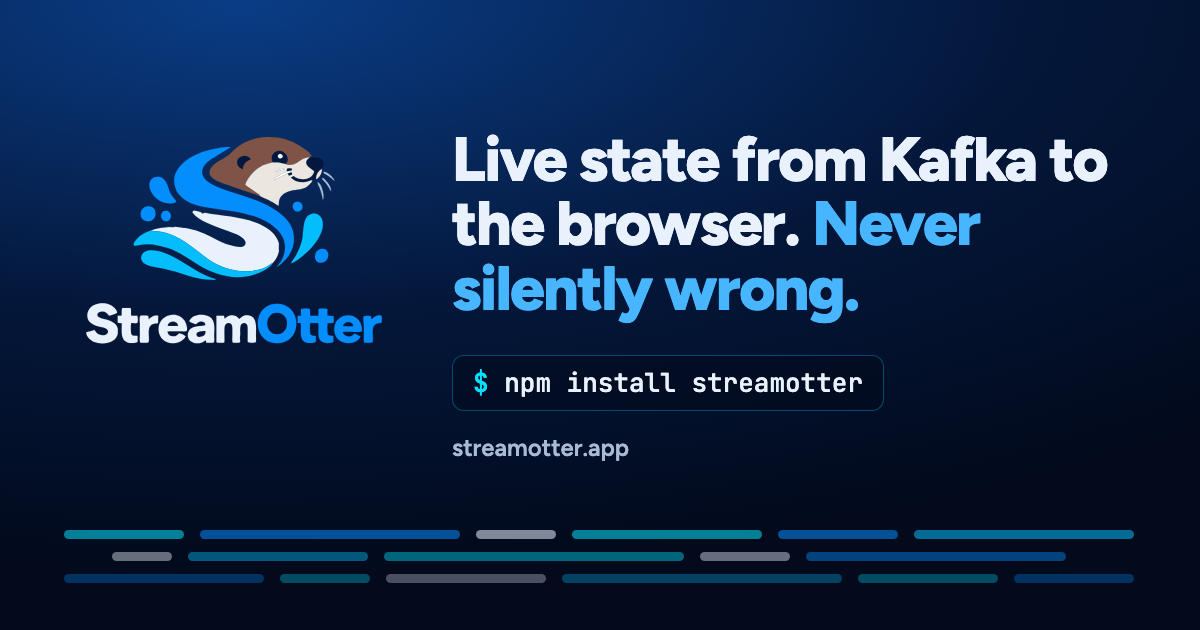
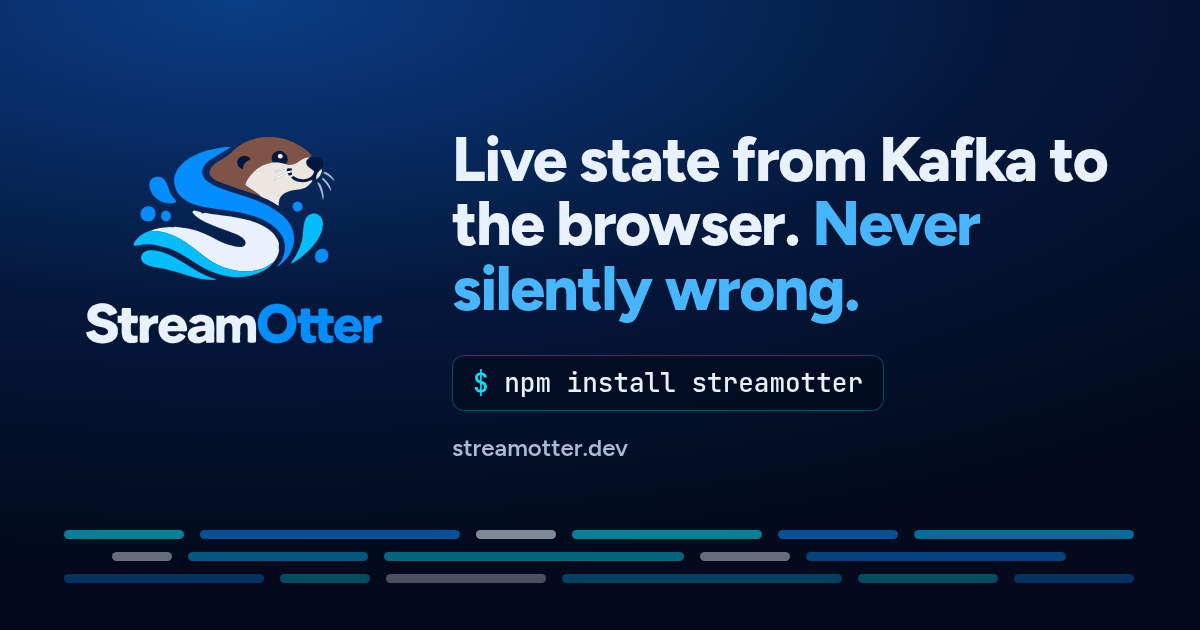
fix: move the site and demo from streamotter.app to streamotter.dev
The site is served from streamotter.dev, but the production gateway config,
the field station's origin checks, Caddy's Origin guards, the site workflow's
field station origin, canonical URLs, robots.txt and the social card still
named streamotter.app, so a live view from streamotter.dev would be refused.

Historical records (reviews, handoffs, ADRs, the working record) are unchanged.

diff --git a/apps/field-station/test/server.test.ts b/apps/field-station/test/server.test.ts
@@ -257,7 +257,7 @@ describe("the field station's HTTP APIs", () => {
   }
 
   before(async () => {
-    config = { ...readConfig({ FIELD_STATION_SERVICE_TOKEN: token }), siteOrigins: ["https://streamotter.app"], gatewayOrigin: "https://demo.streamotter.app" };
+    config = { ...readConfig({ FIELD_STATION_SERVICE_TOKEN: token }), siteOrigins: ["https://streamotter.dev"], gatewayOrigin: "https://demo.streamotter.dev" };
     const queue = new PublishQueue(publisher, () => undefined);
     field = new FieldStation({ queue, dataDir: await dataDir(), epoch: EPOCH, tickMs: TICK_MS, generation: 1, now: time.now, log: () => undefined });
     notebooks = new Notebooks({ queue, tenantId: "lontra-creek", now: time.now, log: () => undefined });
@@ -302,12 +302,12 @@ describe("the field station's HTTP APIs", () => {
   });
 
   test("the site API answers the site's origin with credentials, and nobody else's", async () => {
-    const allowed = await fetch(`${apiOrigin}/api/config`, { headers: { origin: "https://streamotter.app" } });
-    assert.equal(allowed.headers.get("access-control-allow-origin"), "https://streamotter.app");
+    const allowed = await fetch(`${apiOrigin}/api/config`, { headers: { origin: "https://streamotter.dev" } });
+    assert.equal(allowed.headers.get("access-control-allow-origin"), "https://streamotter.dev");
     assert.equal(allowed.headers.get("access-control-allow-credentials"), "true");
-    assert.deepEqual(await allowed.json(), { gatewayOrigin: "https://demo.streamotter.app", gatewayPath: "/streamotter/socket.io", mode: "kafka", tickMs: TICK_MS });
+    assert.deepEqual(await allowed.json(), { gatewayOrigin: "https://demo.streamotter.dev", gatewayPath: "/streamotter/socket.io", mode: "kafka", tickMs: TICK_MS });
 
-    const preflight = await fetch(`${apiOrigin}/api/badge`, { method: "OPTIONS", headers: { origin: "https://streamotter.app", "access-control-request-method": "POST" } });
+    const preflight = await fetch(`${apiOrigin}/api/badge`, { method: "OPTIONS", headers: { origin: "https://streamotter.dev", "access-control-request-method": "POST" } });
     assert.equal(preflight.status, 204);
     assert.equal(preflight.headers.get("access-control-allow-headers"), "content-type");
 
@@ -318,21 +318,21 @@ describe("the field station's HTTP APIs", () => {
   });
 
   test("a malformed request from the site's origin gets a 400 the page can read", async () => {
-    const badge = await fetch(`${apiOrigin}/api/badge`, { method: "POST", headers: { origin: "https://streamotter.app", "content-type": "application/json", "x-client-ip": "198.51.100.39" }, body: "{}" });
+    const badge = await fetch(`${apiOrigin}/api/badge`, { method: "POST", headers: { origin: "https://streamotter.dev", "content-type": "application/json", "x-client-ip": "198.51.100.39" }, body: "{}" });
     const cookie = badge.headers.get("set-cookie")!.split(";")[0]!;
     for (const path of ["/api/badge", "/api/notebook/sightings"]) {
-      const response = await fetch(`${apiOrigin}${path}`, { method: "POST", headers: { origin: "https://streamotter.app", cookie, "content-type": "application/json", "x-client-ip": "198.51.100.40" }, body: "{not json" });
+      const response = await fetch(`${apiOrigin}${path}`, { method: "POST", headers: { origin: "https://streamotter.dev", cookie, "content-type": "application/json", "x-client-ip": "198.51.100.40" }, body: "{not json" });
       assert.equal(response.status, 400, path);
-      assert.equal(response.headers.get("access-control-allow-origin"), "https://streamotter.app", path);
+      assert.equal(response.headers.get("access-control-allow-origin"), "https://streamotter.dev", path);
       assert.equal(response.headers.get("access-control-allow-credentials"), "true");
     }
-    const tooLarge = await fetch(`${apiOrigin}/api/badge`, { method: "POST", headers: { origin: "https://streamotter.app", "content-type": "application/json", "x-client-ip": "198.51.100.41" }, body: JSON.stringify({ role: "x".repeat(5_000) }) });
+    const tooLarge = await fetch(`${apiOrigin}/api/badge`, { method: "POST", headers: { origin: "https://streamotter.dev", "content-type": "application/json", "x-client-ip": "198.51.100.41" }, body: JSON.stringify({ role: "x".repeat(5_000) }) });
     assert.equal(tooLarge.status, 400);
-    assert.equal(tooLarge.headers.get("access-control-allow-origin"), "https://streamotter.app");
+    assert.equal(tooLarge.headers.get("access-control-allow-origin"), "https://streamotter.dev");
   });
 
   test("a badge keeps its subject for the same role and changes it for another", async () => {
-    const first = await fetch(`${apiOrigin}/api/badge`, { method: "POST", headers: { origin: "https://streamotter.app", "content-type": "application/json", "x-client-ip": "198.51.100.7" }, body: JSON.stringify({ role: "volunteer" }) });
+    const first = await fetch(`${apiOrigin}/api/badge`, { method: "POST", headers: { origin: "https://streamotter.dev", "content-type": "application/json", "x-client-ip": "198.51.100.7" }, body: JSON.stringify({ role: "volunteer" }) });
     assert.equal(first.status, 200);
     const cookie = first.headers.get("set-cookie")!;
     assert.match(cookie, /^lc_session=[^;]+; Path=\/api; HttpOnly; SameSite=Strict; Max-Age=1800$/);
@@ -369,7 +369,7 @@ describe("the field station's HTTP APIs", () => {
 
   test("a visitor logs sightings in their own notebook, and only there", async () => {
     const headers = (ip: string, cookie?: string): Record<string, string> => ({
-      origin: "https://streamotter.app", "content-type": "application/json", "x-client-ip": ip, ...(cookie === undefined ? {} : { cookie })
+      origin: "https://streamotter.dev", "content-type": "application/json", "x-client-ip": ip, ...(cookie === undefined ? {} : { cookie })
     });
     const sighting = JSON.stringify({ otterId: "LO-07", reachId: "kestrel-bend", activity: "foraging" });
     assert.equal((await fetch(`${apiOrigin}/api/notebook/sightings`, { method: "POST", headers: headers("192.0.2.1"), body: sighting })).status, 401);
@@ -417,8 +417,8 @@ describe("configuration from the environment", () => {
     FIELD_STATION_SECRET: "s".repeat(32),
     FIELD_STATION_SERVICE_TOKEN: "t".repeat(32),
     FIELD_EPOCH: "2026-10-01T00:00:00Z",
-    SITE_ORIGIN: "https://streamotter.app",
-    GATEWAY_PUBLIC_ORIGIN: "https://demo.streamotter.app",
+    SITE_ORIGIN: "https://streamotter.dev",
+    GATEWAY_PUBLIC_ORIGIN: "https://demo.streamotter.dev",
     KAFKA_BROKERS: "kafka:9094",
     KAFKA_CA_FILE: "/etc/lontra/kafka/ca.pem",
     KAFKA_FIELD_STATION_USERNAME: "field-station",
@@ -429,7 +429,7 @@ describe("configuration from the environment", () => {
     const config = readConfig(production);
     assert.equal(config.epoch, "2026-10-01T00:00:00.000Z");
     assert.deepEqual(config.kafka, { brokers: ["kafka:9094"], caFile: "/etc/lontra/kafka/ca.pem", sasl: { username: "field-station", password: "p" } });
-    assert.deepEqual(config.siteOrigins, ["https://streamotter.app"]);
+    assert.deepEqual(config.siteOrigins, ["https://streamotter.dev"]);
   });
 
   test("production refuses to run without its epoch, TLS, SCRAM, or origins", () => {

diff --git a/deploy/test/lab-spike.test.ts b/deploy/test/lab-spike.test.ts
@@ -3,7 +3,7 @@
  * restored while the demo host's gateway keeps serving. CI runs it against
  * deploy/compose.yaml with deploy/compose.lab-spike.yaml (.github/workflows/lab-spike.yml):
  *
- *   LAB_PROXY_TOKEN=<relay token> STACK_ORIGIN=https://demo.streamotter.app \
+ *   LAB_PROXY_TOKEN=<relay token> STACK_ORIGIN=https://demo.streamotter.dev \
  *   NODE_EXTRA_CA_CERTS=<test origin CA> node --test deploy/test/lab-spike.test.ts
  *
  * Each cycle cuts the bench's proxy, measures how long the bench's subscription
@@ -15,7 +15,7 @@
  * Environment: LAB_PROXY_TOKEN (required), LAB_PROXY_CONTROL (default
  * http://127.0.0.1:9180), LAB_BENCH_ORIGIN (default http://127.0.0.1:7500),
  * LAB_BENCH_PATH (default /lab/1/socket.io), LAB_BADGE_ORIGIN (where /api/badge
- * answers; default STACK_ORIGIN), SITE_ORIGIN (default https://streamotter.app),
+ * answers; default STACK_ORIGIN), SITE_ORIGIN (default https://streamotter.dev),
  * STACK_ORIGIN (the demo host through Caddy; without it the demo host's gateway
  * isn't watched), LAB_STOP_PROXY and LAB_START_PROXY (shell commands that stop and
  * start the proxy's container; without them that cycle skips), LAB_SPIKE_LONG_CUT_MS
@@ -36,8 +36,8 @@ const PROXY_CONTROL = process.env["LAB_PROXY_CONTROL"] ?? "http://127.0.0.1:9180
 const BENCH_ORIGIN = process.env["LAB_BENCH_ORIGIN"] ?? "http://127.0.0.1:7500";
 const BENCH_PATH = process.env["LAB_BENCH_PATH"] ?? "/lab/1/socket.io";
 const STACK = process.env["STACK_ORIGIN"];
-const BADGES = process.env["LAB_BADGE_ORIGIN"] ?? STACK ?? "https://demo.streamotter.app";
-const SITE = process.env["SITE_ORIGIN"] ?? "https://streamotter.app";
+const BADGES = process.env["LAB_BADGE_ORIGIN"] ?? STACK ?? "https://demo.streamotter.dev";
+const SITE = process.env["SITE_ORIGIN"] ?? "https://streamotter.dev";
 const STOP_PROXY = process.env["LAB_STOP_PROXY"];
 const START_PROXY = process.env["LAB_START_PROXY"];
 const LONG_CUT_MS = Number(process.env["LAB_SPIKE_LONG_CUT_MS"] ?? 45_000);

diff --git a/apps/field-station/src/lab/runtime.ts b/apps/field-station/src/lab/runtime.ts
@@ -139,7 +139,7 @@ export class BenchRuntime {
     return envelope.data;
   }
   async #relay(cut: boolean): Promise<void> { const origin = this.#env['LAB_RELAY_ORIGIN'] ?? `http://lab-${this.#settings.number}-kafka:9180`; const response = await fetch(`${origin}/${cut ? 'cut' : 'restore'}`, { method: 'POST', headers: { authorization: `Bearer ${this.#settings.relayToken}` }, signal: AbortSignal.timeout(3000) }); if (!response.ok) throw new Error('Relay unavailable.'); this.#scenario.relay = cut ? 'cut' : 'up'; }
-  #config() { const study = this.#study; if (!study) throw new Error('No study.'); return benchConfig(this.#settings.number, { generation: study.generation, host: this.#env['BENCH_HOST'] ?? '0.0.0.0', port: Number(this.#env['BENCH_PORT'] ?? 7400), brokers: (this.#env['BENCH_KAFKA_BROKERS'] ?? `lab-${this.#settings.number}-kafka:${9100 + this.#settings.number}`).split(','), caFile: this.#env['KAFKA_CA_FILE'] ?? '/etc/lontra/kafka/ca.pem', consumerGroup: study.consumerGroup, allowedOrigins: (this.#env['SITE_ORIGIN'] ?? 'https://streamotter.app').split(',') }); }
+  #config() { const study = this.#study; if (!study) throw new Error('No study.'); return benchConfig(this.#settings.number, { generation: study.generation, host: this.#env['BENCH_HOST'] ?? '0.0.0.0', port: Number(this.#env['BENCH_PORT'] ?? 7400), brokers: (this.#env['BENCH_KAFKA_BROKERS'] ?? `lab-${this.#settings.number}-kafka:${9100 + this.#settings.number}`).split(','), caFile: this.#env['KAFKA_CA_FILE'] ?? '/etc/lontra/kafka/ca.pem', consumerGroup: study.consumerGroup, allowedOrigins: (this.#env['SITE_ORIGIN'] ?? 'https://streamotter.dev').split(',') }); }
   /** Runs `fn` only while `scope` is the open study; otherwise counts a late callback against that study. */
   #within(scope: StudyScope, fn: () => void): void { if (scope.closed || scope !== this.#scope) { scope.counts.lateCallbacks++; return; } fn(); }
   /**

diff --git a/deploy/test/stack.test.ts b/deploy/test/stack.test.ts
@@ -3,10 +3,10 @@
  * (`streamotter start` from npm), the field station, and Kafka over TLS with SCRAM.
  * CI runs it against deploy/compose.yaml (.github/workflows/stack.yml):
  *
- *   NODE_EXTRA_CA_CERTS=<test origin CA> STACK_ORIGIN=https://demo.streamotter.app \
+ *   NODE_EXTRA_CA_CERTS=<test origin CA> STACK_ORIGIN=https://demo.streamotter.dev \
  *   STACK_RESTART_GATEWAY="docker compose … restart gateway" node --test deploy/test/stack.test.ts
  *
- * STACK_ORIGIN is where Caddy answers; SITE_ORIGIN (default https://streamotter.app)
+ * STACK_ORIGIN is where Caddy answers; SITE_ORIGIN (default https://streamotter.dev)
  * is the page origin the gateway allows. STACK_RESTART_GATEWAY and
  * STACK_RESTART_FIELD_STATION are shell commands; without them those tests skip.
  */
@@ -18,8 +18,8 @@ import { promisify } from "node:util";
 import { createClient, type Client, type StreamError, type StreamEvent, type Subscription, type SubscriptionState } from "streamotter/client";
 import type { AppChannels } from "../../apps/field-station/src/generated/streamotter.generated.ts";
 
-const STACK = process.env["STACK_ORIGIN"] ?? "https://demo.streamotter.app";
-const SITE = process.env["SITE_ORIGIN"] ?? "https://streamotter.app";
+const STACK = process.env["STACK_ORIGIN"] ?? "https://demo.streamotter.dev";
+const SITE = process.env["SITE_ORIGIN"] ?? "https://streamotter.dev";
 const RESTART_GATEWAY = process.env["STACK_RESTART_GATEWAY"];
 const RESTART_FIELD_STATION = process.env["STACK_RESTART_FIELD_STATION"];
 const run = promisify(exec);

diff --git a/e2e/content.spec.ts b/e2e/content.spec.ts
@@ -22,14 +22,14 @@ test("every public route has unique metadata and internal links resolve", async 
     expect(titles.has(title), `${route}: duplicate title`).toBe(false);
     titles.add(title);
     await expect(page.locator('meta[name="description"]')).toHaveAttribute("content", /.{10}/);
-    await expect(page.locator('link[rel="canonical"]')).toHaveAttribute("href", `https://streamotter.app${route}`);
+    await expect(page.locator('link[rel="canonical"]')).toHaveAttribute("href", `https://streamotter.dev${route}`);
     await expect(page.locator('meta[property="og:image"]')).toHaveAttribute("content", /social-preview\.png$/);
     await expect(page.locator('meta[name="robots"][content*="noindex"]')).toHaveCount(0);
     for (const href of await page.locator('a[href^="/"]').evaluateAll(nodes => nodes.map(node => node.getAttribute("href")!))) links.add(href.split("#")[0]!);
   }
   for (const href of links) expect((await request.get(href || "/")).ok(), href).toBe(true);
   const sitemap = await (await request.get("/sitemap.xml")).text();
-  for (const route of routes) expect(sitemap).toContain(`https://streamotter.app${route}</loc>`);
+  for (const route of routes) expect(sitemap).toContain(`https://streamotter.dev${route}</loc>`);
 });
 
 test("playground validates real configuration and receives real SDK data", async ({ page }) => {

diff --git a/apps/site/test/lab-catalog.test.ts b/apps/site/test/lab-catalog.test.ts
@@ -30,8 +30,8 @@ test("a deep link selects explanation only, and an unknown scenario is ignored",
   // A scenario outside the named track opens its own track.
   assert.deepEqual(selectionFromUrl(url("?scenario=garbled-reading", "#connections")), { track: "source-failures", scenario: "garbled-reading" });
   for (const junk of ["?scenario=toString", "?scenario=__proto__", "?scenario=%3Cscript%3E", "?scenario="]) assert.deepEqual(selectionFromUrl(url(junk, "#source-failures")), { track: "source-failures", scenario: null }, junk);
-  assert.equal(urlFor(new URL("https://streamotter.app/lab/?x=1"), { track: "source-failures", scenario: "calibration-blip" }), "/lab/?x=1&scenario=calibration-blip#source-failures");
-  assert.equal(urlFor(new URL("https://streamotter.app/lab/?scenario=calibration-blip#source-failures"), { track: "connections", scenario: null }), "/lab/#connections");
+  assert.equal(urlFor(new URL("https://streamotter.dev/lab/?x=1"), { track: "source-failures", scenario: "calibration-blip" }), "/lab/?x=1&scenario=calibration-blip#source-failures");
+  assert.equal(urlFor(new URL("https://streamotter.dev/lab/?scenario=calibration-blip#source-failures"), { track: "connections", scenario: null }), "/lab/#connections");
 });
 
 test("against 0.1.0-rc.3 every new exercise is unavailable with the capability it lacks", () => {

diff --git a/apps/field-station/test/kafka-handlers.test.ts b/apps/field-station/test/kafka-handlers.test.ts
@@ -72,9 +72,9 @@ describe("the Kafka handlers", () => {
   test("authenticate accepts a signed badge and refuses anything else", async () => {
     const badge: Badge = { subject: "volunteer-abc", role: "volunteer", name: "Volunteer" };
     const signed = issueToken(badge, { secret, ttlSeconds: 60 }).token;
-    assert.equal((await handlers.authenticate({ ...context, token: signed, origin: "https://streamotter.app" }))?.subject, "volunteer-abc");
+    assert.equal((await handlers.authenticate({ ...context, token: signed, origin: "https://streamotter.dev" }))?.subject, "volunteer-abc");
     const forged = issueToken(badge, { secret: "f".repeat(32), ttlSeconds: 60 }).token;
-    assert.equal(await handlers.authenticate({ ...context, token: forged, origin: "https://streamotter.app" }), null);
+    assert.equal(await handlers.authenticate({ ...context, token: forged, origin: "https://streamotter.dev" }), null);
   });
 
   test("authorize follows the access rules", async () => {

diff --git a/apps/site/src/demo-availability.ts b/apps/site/src/demo-availability.ts
@@ -24,7 +24,7 @@ export const WAITING_EXERCISES = TRACKS["source-failures"].filter(id => SCENARIO
 const failureHandlingIssue = INSTALLED_VALIDATOR_ON_FAILURE_HANDLING.issues[0]?.code ?? "no issue";
 
 export const SITE_RELEASE = {
-  name: "streamotter.app: StreamOtter's home site and the fictional Lontra Creek demo",
+  name: "streamotter.dev: StreamOtter's home site and the fictional Lontra Creek demo",
   launch: SITE.launched ? "Launched." : "Pre-launch. This build is a candidate; no public release of the site or its hosted demo has been accepted.",
   milestone: `${SITE.milestone.name}, ${SITE.milestone.state}.`,
   versioning: `The site's milestones are its own. Site ${SITE.milestone.name} is a different milestone from StreamOtter V1.1, and neither one is npm version 1.1.0. Each ships on its own schedule.`

diff --git a/apps/field-station/test/support/sandbox-fixture.ts b/apps/field-station/test/support/sandbox-fixture.ts
@@ -12,7 +12,7 @@ export function fixtureBase(slot: SlotId): ProjectConfig {
   const string = { type: 'string', minLength: 1, maxLength: 64 } as const;
   return {
     configVersion: 1, projectId: `lontra-creek-sandbox-${slot}`,
-    gateway: { host: '0.0.0.0', port: 7600 + slot * 10, path: `/sandbox/${slot}/socket.io`, allowedOrigins: ['https://streamotter.app'] },
+    gateway: { host: '0.0.0.0', port: 7600 + slot * 10, path: `/sandbox/${slot}/socket.io`, allowedOrigins: ['https://streamotter.dev'] },
     connections: {},
     sources: { creek: { kind: 'fixture', generation: 'creek-1', fixtureRef: 'creek' }, jobs: { kind: 'fixture', generation: 'jobs-1', fixtureRef: 'jobs' } },
     schemas: {

diff --git a/e2e/seo.spec.ts b/e2e/seo.spec.ts
@@ -7,12 +7,12 @@ test("/sitemap.xml is served", async ({ request }) => {
   expect(response.headers()["content-type"]).toContain("xml");
   const body = await response.text();
   expect(body).toContain("<urlset");
-  expect(body).toContain("<loc>https://streamotter.app/</loc>");
+  expect(body).toContain("<loc>https://streamotter.dev/</loc>");
 });
 
 test("/robots.txt is served", async ({ request }) => {
   const response = await request.get("/robots.txt");
   expect(response.ok()).toBeTruthy();
   const body = await response.text();
-  expect(body).toContain("Sitemap: https://streamotter.app/sitemap.xml");
+  expect(body).toContain("Sitemap: https://streamotter.dev/sitemap.xml");
 });

diff --git a/deploy/test/lab.test.ts b/deploy/test/lab.test.ts
@@ -8,7 +8,7 @@ import https from 'node:https';
 import type { LabAction, LabActionResult, LabFeedPage, LabLease, LabToken } from '../../apps/field-station/src/lab/contract.ts';
 import type { LabChannels } from '../../apps/field-station/src/lab/bench.ts';
 const API = process.env['LAB_API_ORIGIN'];
-const SITE = process.env['LAB_SITE_ORIGIN'] ?? 'https://streamotter.app';
+const SITE = process.env['LAB_SITE_ORIGIN'] ?? 'https://streamotter.dev';
 // The Node SDK transport does not send a browser Origin automatically.
 for (const transport of [http, https]) {
   const original = transport.request;

diff --git a/apps/field-station/src/project.ts b/apps/field-station/src/project.ts
@@ -22,7 +22,7 @@ export type Environment = "fixture" | "local-kafka" | "production";
 
 export const PROJECT_ID = "lontra-creek";
 export const CHANNEL_VERSION = 1 as const;
-export const SITE_ORIGIN = "https://streamotter.app";
+export const SITE_ORIGIN = "https://streamotter.dev";
 export const GATEWAY_PATH = "/streamotter/socket.io";
 const SITE_DEV_ORIGINS = ["http://localhost:4321", "http://127.0.0.1:4321"];
 
